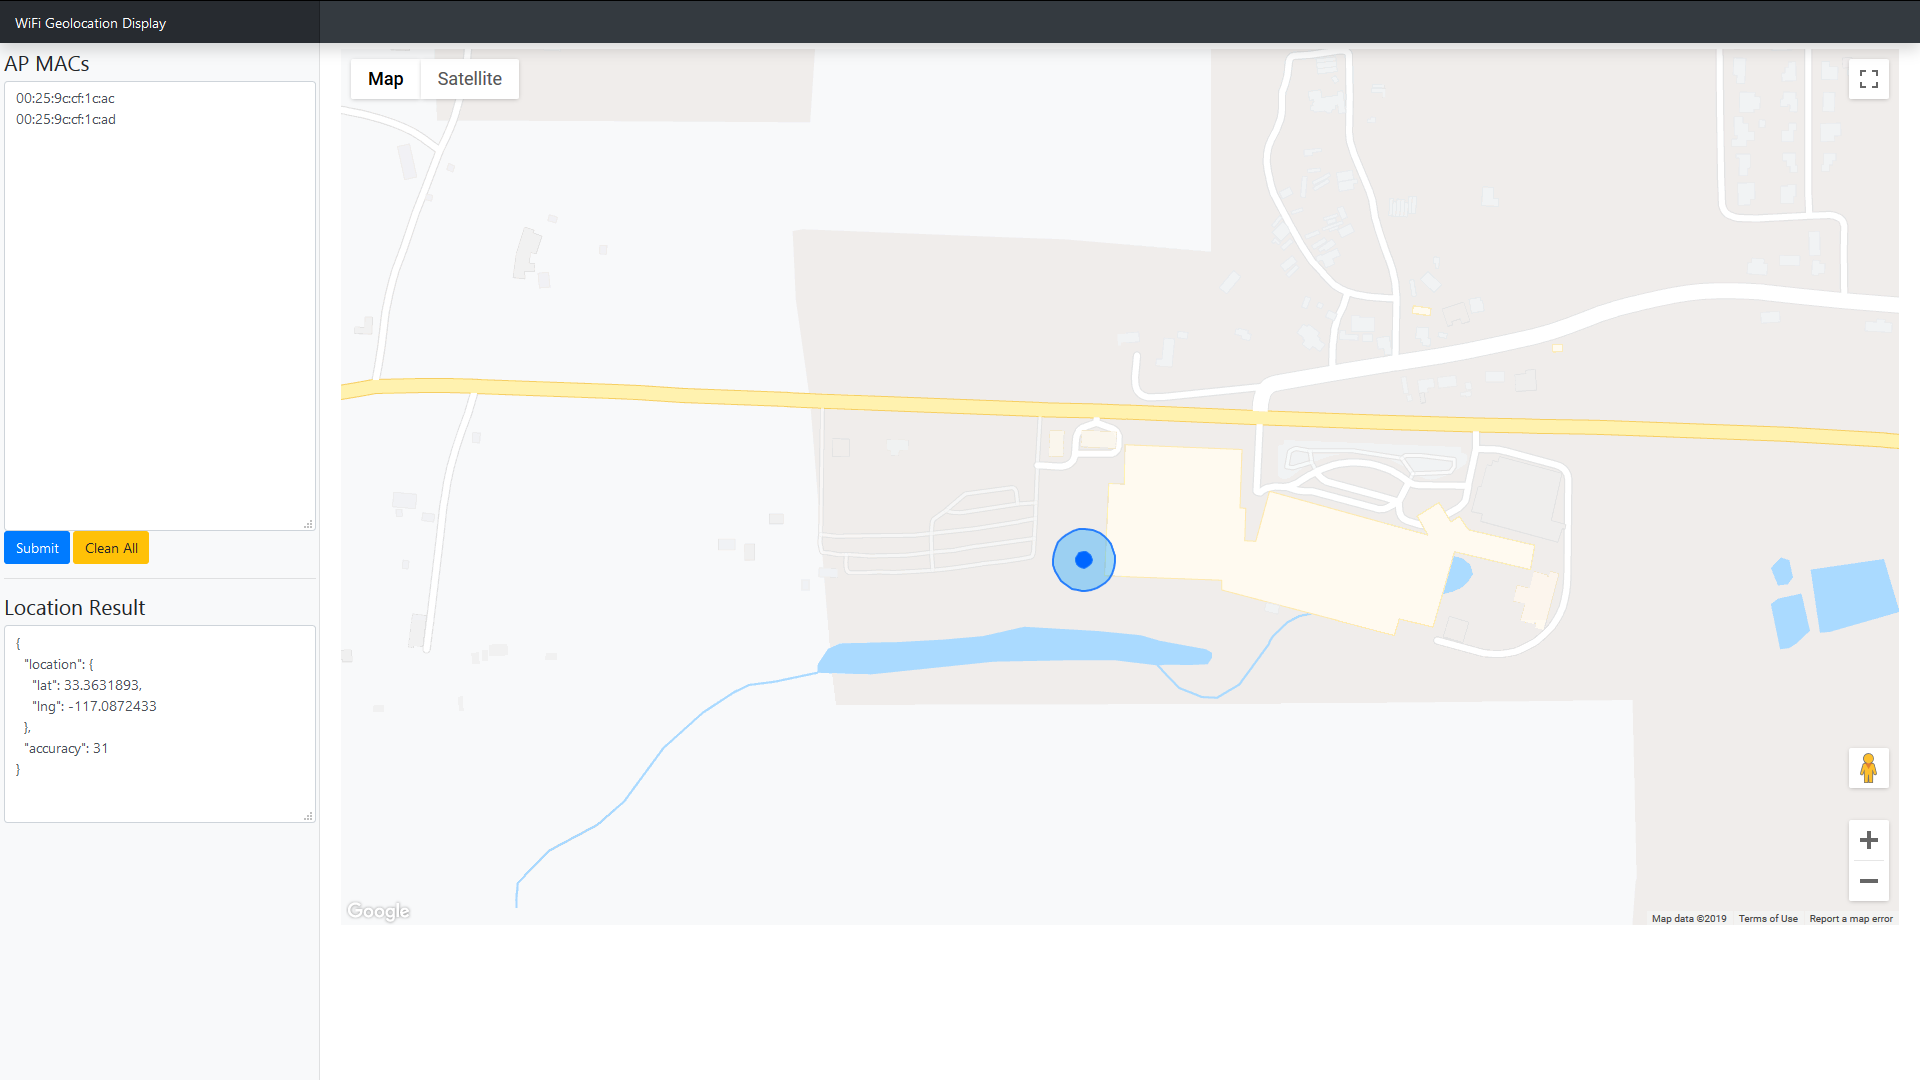
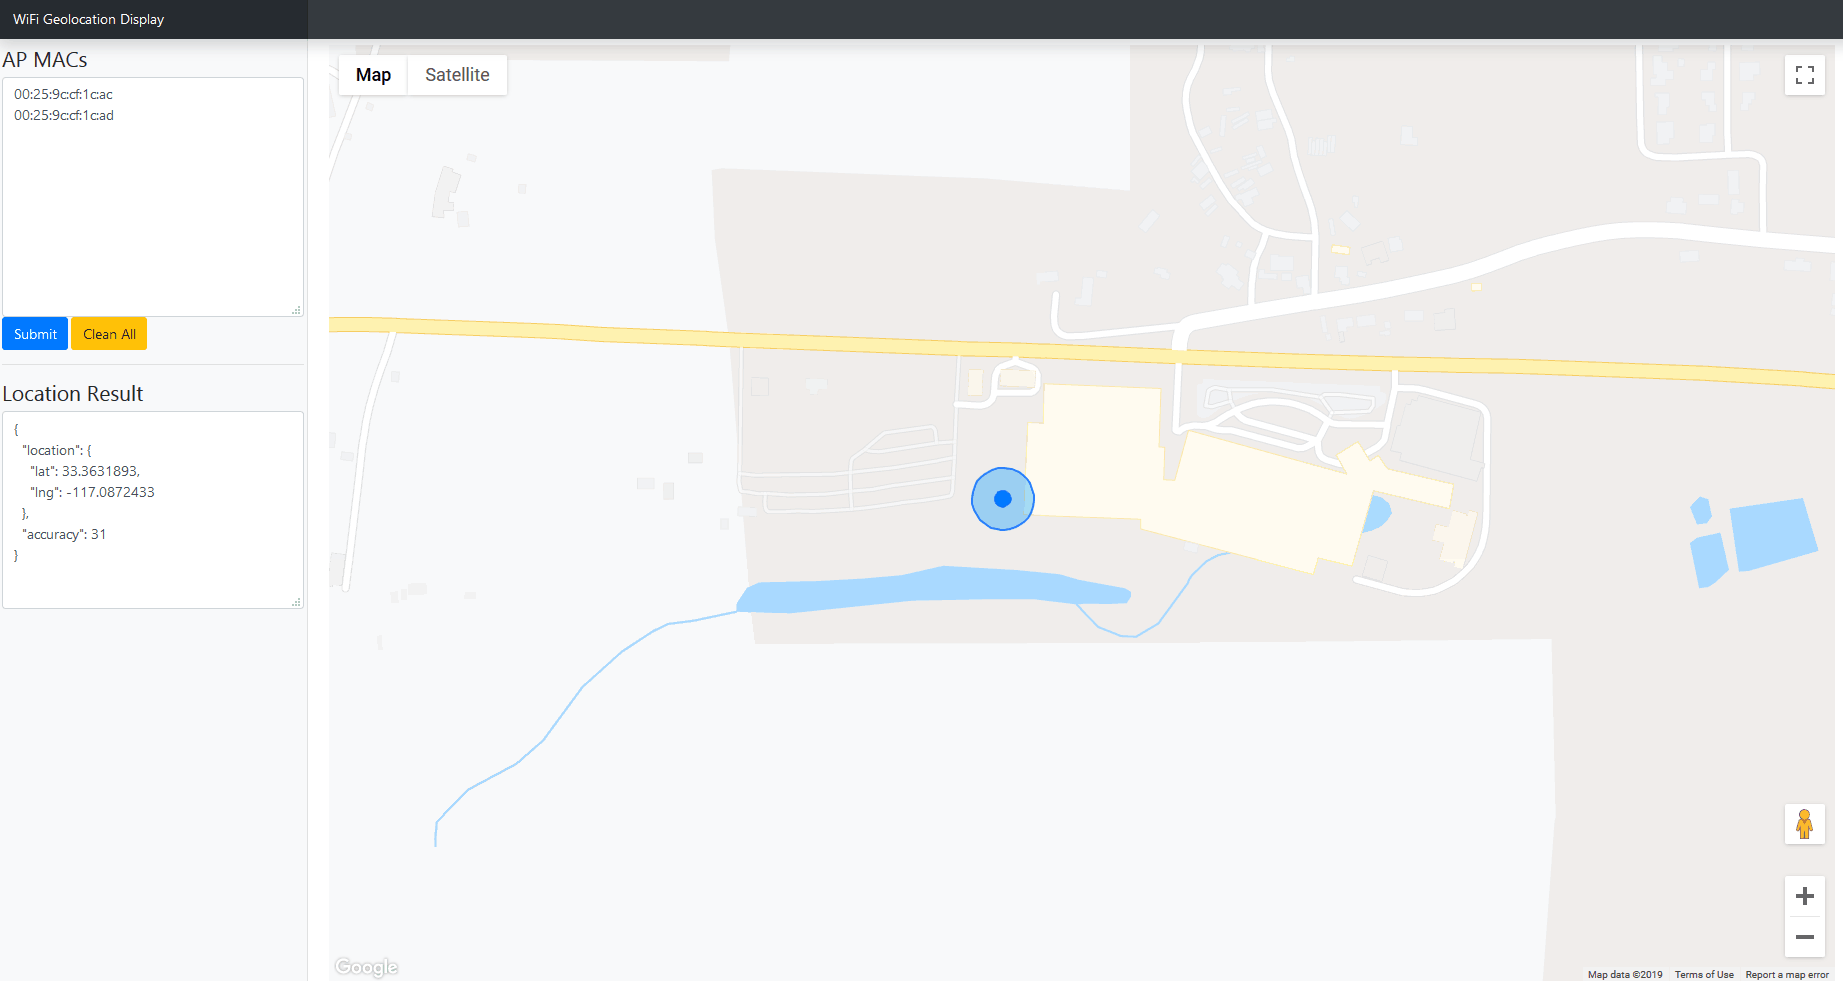
Update: larger map dispaly

diff --git a/WiFi Geolocation Display.html b/WiFi Geolocation Display.html
@@ -17,7 +17,7 @@
         <div class="row">
             <div class="col-md-2 d-none d-md-block bg-light sidebar">
                 <h1 class="h4">AP MACs</h1>
-                <textarea class="form-control" rows="20" id="MAC_str" type="text"
+                <textarea class="form-control" rows="10" id="MAC_str" type="text"
                     placeholder="Add muliti-line MACs here."></textarea>
                 <button type="button" class="btn btn-primary" onclick="plotGEO()">Submit</button>
                 <button type="button" class="btn btn-warning"
@@ -26,12 +26,8 @@
                 <h1 class="h4">Location Result</h1>
                 <textarea class="form-control" rows="8" id="loc_result" type="text"></textarea>
             </div>
-            <main role="main" class="col-md-9 ml-sm-auto col-lg-10 px-4">
-                <div class="embed-responsive embed-responsive-16by9">
-                    <div id="map-container" class="embed-responsive-item">
-                        <div id="map"></div>
-                    </div>
-                </div>
+            <main role="main" class="col-md-10 ml-sm-auto col-lg-10 px-4">
+                <div id="map"></div>
             </main>
         </div>
     </div>

diff --git a/dashboard.css b/dashboard.css
@@ -71,11 +71,13 @@ body {
  */
 
 [role="main"] {
+  height: 100vh;
   padding-top: 133px; /* Space for fixed navbar */
 }
 
 @media (min-width: 768px) {
   [role="main"] {
+    height: 100vh;
     padding-top: 48px; /* Space for fixed navbar */
   }
 }

diff --git a/README.md b/README.md
@@ -1,7 +1,7 @@
 # wifi_geolocation_display
 WiFi postioning test by google map geolocation API
 
-Please replace the value of the key parameter with your own API key in `line:131` and `line:200` of `WiFi Geolocation Display.html`.
+Please replace the value of the key parameter with your own API key in `line:127` and `line:196` of `WiFi Geolocation Display.html`.
 
 # Screenshot
 ![screenshot](screenshot.png)
